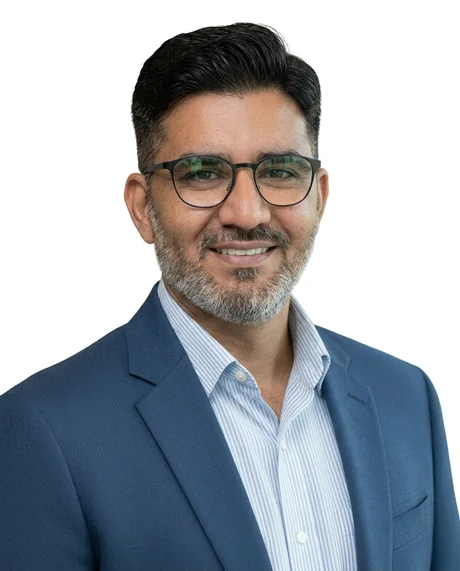
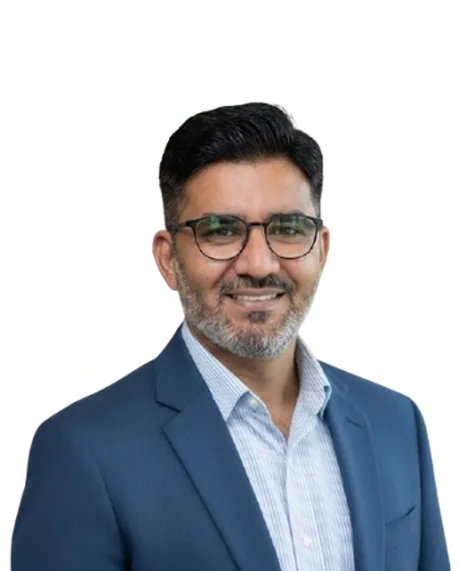
chore(assets): update portrait — new headshot, transparent background
Replaces the existing rizwan-zafar-cutout.* asset set with a fresh
head + shoulders portrait (navy blazer, light blue shirt, glasses,
trimmed beard). All three files keep the existing filenames so no
JSX changes are needed.

scripts/process-portrait.ts (new):
- Reads the source bg-removed PNG
- Trims to subject bounds
- Scales subject to ~96% of canvas width
- Composites into 928×1152 alpha canvas, anchored at bottom
- Emits:
  • src/assets/rizwan-zafar-cutout.png       — 928×1152 PNG, alpha, 989 KB
  • src/assets/rizwan-zafar-cutout.webp      — 920×1142 WebP, alpha, 106 KB
  • src/assets/rizwan-zafar-cutout-460.webp  — 460×571  WebP, alpha,  43 KB

The new files have a transparent background where the old ones had a
baked-in white. The hero portrait container's CSS already uses
object-bottom, so the bottom-anchored composition lands correctly.
Subject lower-half framing also means the /about page's circular
avatar (object-cover on a 96×96 element) still crops to a clean
face shot.

No JSX or layout changes required.

diff --git a/scripts/process-portrait.ts b/scripts/process-portrait.ts
@@ -1,0 +1,88 @@
+#!/usr/bin/env bun
+/**
+ * Process the new portrait source into the 3 asset files the site loads:
+ *
+ *   src/assets/rizwan-zafar-cutout.png       — PNG fallback, 928×1152, alpha
+ *   src/assets/rizwan-zafar-cutout.webp      — 920w WebP, alpha
+ *   src/assets/rizwan-zafar-cutout-460.webp  — 460w WebP, alpha (mobile + avatar)
+ *
+ * The source from the bg-remove preview is a tight head+shoulders crop with
+ * lots of transparent padding. The site expects a 4:5 portrait container with
+ * `object-bottom`, so we:
+ *   1. Trim to subject bounds
+ *   2. Scale subject to canvas width (928 px)
+ *   3. Composite into a 928×1152 alpha canvas anchored at the bottom
+ *   4. Emit PNG + 2 WebP variants
+ *
+ *   bun scripts/process-portrait.ts <source.png>
+ */
+import sharp from "sharp";
+import { mkdir, copyFile } from "node:fs/promises";
+
+const SRC = process.argv[2] ?? "/Users/rizwanzafar/Downloads/image-removebg-preview.png";
+const OUT = "src/assets";
+const CANVAS_W = 928;
+const CANVAS_H = 1152;
+const TARGET_SUBJECT_PCT = 0.96; // subject occupies 96% of canvas width
+
+await mkdir(OUT, { recursive: true });
+
+// 1. Trim source to subject bounds.
+const trimmed = await sharp(SRC).trim({ threshold: 10 }).toBuffer({ resolveWithObject: true });
+const { width: tw, height: th } = trimmed.info;
+console.log(`Source trimmed: ${tw}×${th}`);
+
+// 2. Scale so the SUBJECT width fits TARGET_SUBJECT_PCT of canvas width.
+const targetW = Math.round(CANVAS_W * TARGET_SUBJECT_PCT);
+const scale = targetW / tw;
+const scaledH = Math.round(th * scale);
+const scaled = await sharp(trimmed.data).resize(targetW, scaledH, { kernel: "lanczos3" }).toBuffer();
+console.log(`Subject scaled: ${targetW}×${scaledH}`);
+
+// 3. Composite into a 928×1152 transparent canvas, anchored to the bottom.
+const canvas = await sharp({
+  create: {
+    width: CANVAS_W,
+    height: CANVAS_H,
+    channels: 4,
+    background: { r: 0, g: 0, b: 0, alpha: 0 },
+  },
+})
+  .composite([
+    {
+      input: scaled,
+      // Horizontal centre, vertical bottom-anchor.
+      left: Math.round((CANVAS_W - targetW) / 2),
+      top: CANVAS_H - scaledH,
+    },
+  ])
+  .png({ compressionLevel: 9, palette: false })
+  .toBuffer();
+console.log(`Canvas composed: ${CANVAS_W}×${CANVAS_H}`);
+
+// 4. Emit the three files.
+await sharp(canvas)
+  .png({ compressionLevel: 9 })
+  .toFile(`${OUT}/rizwan-zafar-cutout.png`);
+await sharp(canvas)
+  .resize(920, null, { withoutEnlargement: true })
+  .webp({ quality: 85, effort: 6, alphaQuality: 90 })
+  .toFile(`${OUT}/rizwan-zafar-cutout.webp`);
+await sharp(canvas)
+  .resize(460, null, { withoutEnlargement: true })
+  .webp({ quality: 80, effort: 6, alphaQuality: 85 })
+  .toFile(`${OUT}/rizwan-zafar-cutout-460.webp`);
+
+console.log("\n✓ Portrait files written:");
+const files = [
+  "rizwan-zafar-cutout.png",
+  "rizwan-zafar-cutout.webp",
+  "rizwan-zafar-cutout-460.webp",
+];
+for (const f of files) {
+  const m = await sharp(`${OUT}/${f}`).metadata();
+  console.log(`  ${f}: ${m.width}×${m.height}, ${m.size ?? "?"} bytes`);
+}
+
+// Keep the OG card source in sync — preserve the existing one by copy.
+// (The OG card is text-only; it doesn't embed the portrait.)
